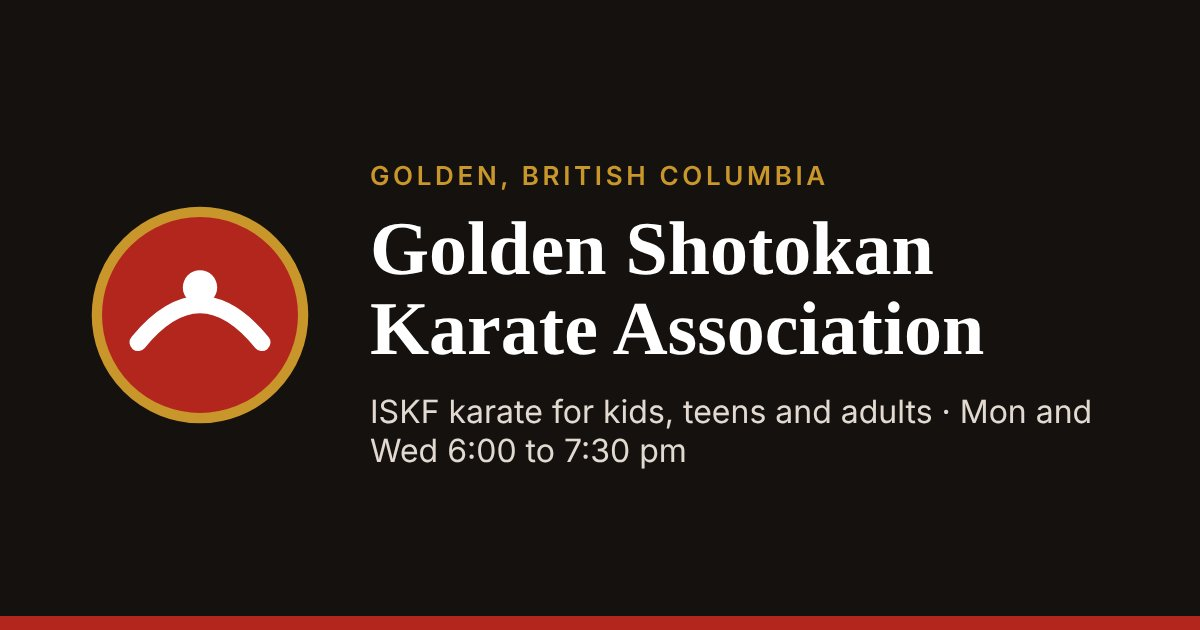
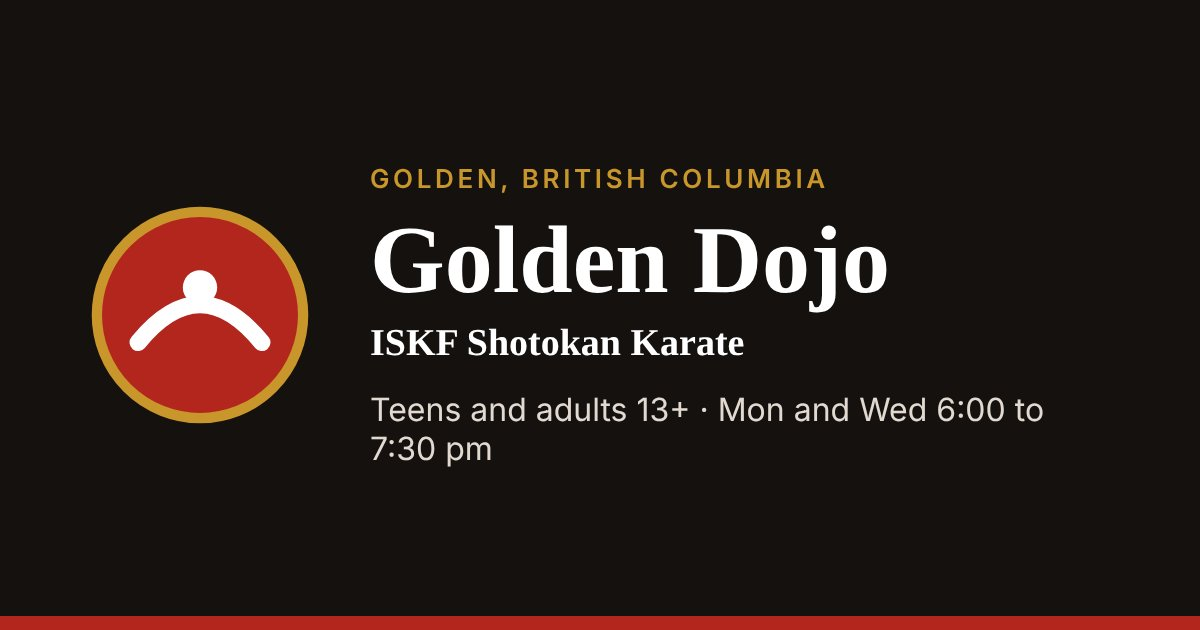
Rename the club to Golden Dojo
Matches the club's Facebook page name, which keeps the business name
consistent across Google and other listings.

Claude-Session: https://claude.ai/code/session_01GtnhiUJXiJqtrpn1P3vqje

Changed region(s): [[0.3083, 0.3317, 0.8325, 0.573], [0.3083, 0.6333, 0.925, 0.754], [0.3083, 0.2413, 0.7092, 0.3016]]

diff --git a/lib/email.js b/lib/email.js
@@ -1,6 +1,6 @@
 // Sends the two registration emails through Resend (https://resend.com).
 // Env: RESEND_API_KEY, CLUB_EMAIL (who receives new registrations, comma
-// separated for several), FROM_EMAIL (e.g. "Golden Shotokan <register@iskfgolden.ca>").
+// separated for several), FROM_EMAIL (e.g. "Golden Dojo <register@iskfgolden.ca>").
 import { escapeHtml as h } from './registration.js';
 
 async function send(env, msg) {
@@ -48,15 +48,15 @@ export function familyEmail(r, siteUrl) {
   const plainName = r.guardian_name && r.age < 18 ? r.guardian_name.split(' ')[0] : r.student_first;
   const name = h(plainName);
   return {
-    subject: 'Welcome to Golden Shotokan Karate',
+    subject: 'Welcome to Golden Dojo Karate',
     html: `<p>Hi ${name},</p>
-<p>Thanks for registering ${h(r.student_first)} with Golden Shotokan Karate Association. We've received your registration and a member of the club will be in touch before your first class.</p>
+<p>Thanks for registering ${h(r.student_first)} with Golden Dojo. We've received your registration and a member of the club will be in touch before your first class.</p>
 <p><b>Classes:</b> Monday and Wednesday, 6:00 to 7:30 pm.<br>
 <b>Wear:</b> comfortable athletic clothes. We train barefoot.<br>
 <b>Arrive:</b> 10 to 15 minutes early for your first class.</p>
 <p>More details: <a href="${h(siteUrl)}/first-class">your first class</a>.</p>
-<p>See you on the floor,<br>Golden Shotokan Karate Association</p>`,
-    text: `Hi ${plainName},\n\nThanks for registering ${r.student_first} with Golden Shotokan Karate Association. A member of the club will be in touch before your first class.\n\nClasses: Monday and Wednesday, 6:00 to 7:30 pm.\nWear comfortable athletic clothes; we train barefoot. Arrive 10 to 15 minutes early.\n\n${siteUrl}/first-class`,
+<p>See you on the floor,<br>Golden Dojo</p>`,
+    text: `Hi ${plainName},\n\nThanks for registering ${r.student_first} with Golden Dojo. A member of the club will be in touch before your first class.\n\nClasses: Monday and Wednesday, 6:00 to 7:30 pm.\nWear comfortable athletic clothes; we train barefoot. Arrive 10 to 15 minutes early.\n\n${siteUrl}/first-class`,
   };
 }
 

diff --git a/src/config.js b/src/config.js
@@ -4,8 +4,8 @@
 export { MIN_AGE } from '../lib/registration.js';
 
 export const SITE = {
-  name: 'Golden Shotokan Karate Association',
-  shortName: 'Golden Shotokan',
+  name: 'Golden Dojo',
+  shortName: 'Golden Dojo',
   url: 'https://iskfgolden.ca', // matches the club email domain
   city: 'Golden',
   region: 'BC',

diff --git a/README.md b/README.md
@@ -1,6 +1,6 @@
-# Golden Shotokan Karate Association website
+# Golden Dojo website
 
-Website for the Golden Shotokan Karate Association, an ISKF club in Golden, BC.
+Website for the Golden Dojo, an ISKF club in Golden, BC.
 Fast static pages for local SEO, an online registration form, and a private
 admin area where the club sees and manages every registration.
 
@@ -67,7 +67,7 @@ npx wrangler pages dev dist               # http://localhost:8788, admin at /adm
    | --- | --- |
    | `RESEND_API_KEY` | from Resend |
    | `CLUB_EMAIL` | address(es) that receive new registrations, comma separated |
-   | `FROM_EMAIL` | e.g. `Golden Shotokan <register@iskfgolden.ca>` (domain verified in Resend) |
+   | `FROM_EMAIL` | e.g. `Golden Dojo <register@iskfgolden.ca>` (domain verified in Resend) |
    | `SITE_URL` | `https://iskfgolden.ca` |
    | `TURNSTILE_SECRET` | from Turnstile |
    | `ACCESS_TEAM_DOMAIN` | e.g. `iskfgolden.cloudflareaccess.com` |
